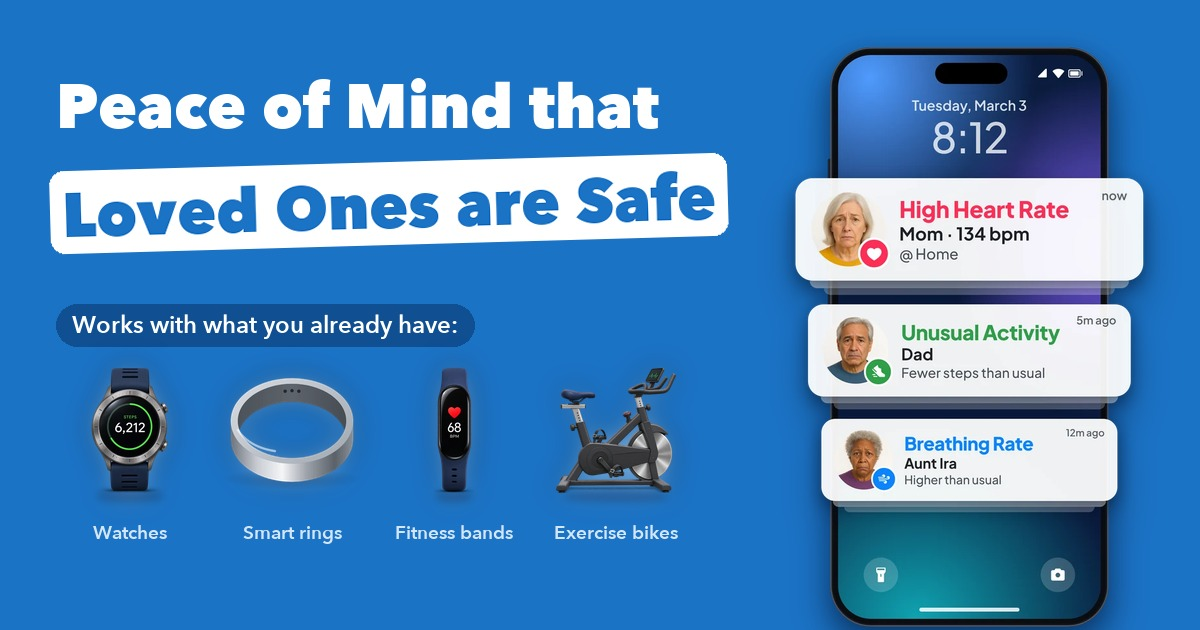
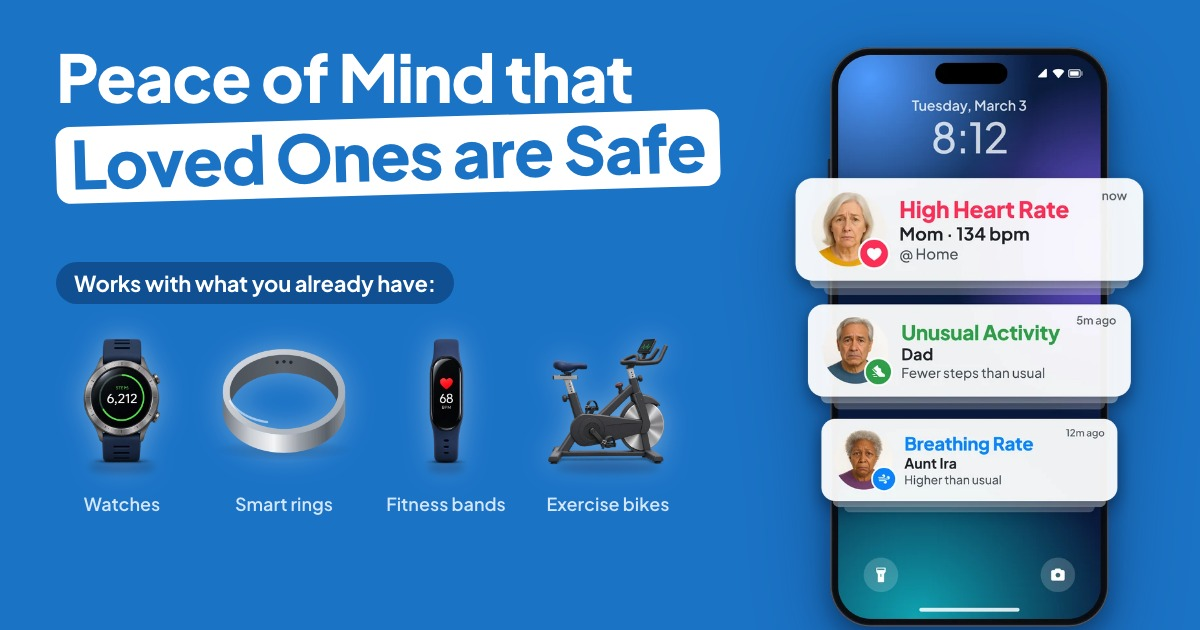
Nov. 12 release: about a Loved One; photo in the site's font

Changed region(s): [[0.0308, 0.0603, 0.6167, 0.8746]]

diff --git a/press/one-daily-answer.html b/press/one-daily-answer.html
@@ -6,10 +6,10 @@
   <meta name="robots" content="noindex, nofollow">
   <meta name="viewport" content="width=device-width, initial-scale=1.0">
   <title>Looop helps families know their Loved Ones are safe, no matter the distance, starting with their health | Looop</title>
-  <meta name="description" content="Looop, an Austin startup, helps families stay on top of an aging parent&#x27;s health, safety, and wellbeing, and adds severe weather, nearby crime, and unusual spending to the same daily answer. It works with wearables parents already have, nothing new to buy, and it&#x27;s on the App Store today.">
+  <meta name="description" content="Looop, an Austin startup, helps families stay on top of a Loved One&#x27;s health, safety, and wellbeing, and adds severe weather, nearby crime, and unusual spending to the same daily answer. It works with wearables parents already have, nothing new to buy, and it&#x27;s on the App Store today.">
   <meta property="og:type" content="article">
   <meta property="og:title" content="Looop helps families know their Loved Ones are safe, no matter the distance, starting with their health">
-  <meta property="og:description" content="Looop, an Austin startup, helps families stay on top of an aging parent&#x27;s health, safety, and wellbeing, and adds severe weather, nearby crime, and unusual spending to the same daily answer. It works with wearables parents already have, nothing new to buy, and it&#x27;s on the App Store today.">
+  <meta property="og:description" content="Looop, an Austin startup, helps families stay on top of a Loved One&#x27;s health, safety, and wellbeing, and adds severe weather, nearby crime, and unusual spending to the same daily answer. It works with wearables parents already have, nothing new to buy, and it&#x27;s on the App Store today.">
   <meta property="og:site_name" content="Looop">
   <meta property="og:url" content="https://www.thelooopapp.com/press/one-daily-answer.html">
   <meta property="og:image" content="https://www.thelooopapp.com/images/press/looop-health-alerts.jpg">
@@ -24,7 +24,7 @@
   <link href="https://fonts.googleapis.com/css2?family=Plus+Jakarta+Sans:wght@400;500;600;700;800&display=swap" rel="stylesheet">
 
   <link rel="canonical" href="https://www.thelooopapp.com/press/one-daily-answer.html">
-  <script type="application/ld+json">{"@context": "https://schema.org", "@type": "NewsArticle", "headline": "Looop helps families know their Loved Ones are safe, no matter the distance, starting with their health", "description": "Looop, an Austin startup, helps families stay on top of an aging parent&#x27;s health, safety, and wellbeing, and adds severe weather, nearby crime, and unusual spending to the same daily answer. It works with wearables parents already have, nothing new to buy, and it&#x27;s on the App Store today.", "url": "https://www.thelooopapp.com/press/one-daily-answer.html", "mainEntityOfPage": "https://www.thelooopapp.com/press/one-daily-answer.html", "image": ["https://www.thelooopapp.com/images/press/looop-health-alerts.jpg", "https://www.thelooopapp.com/images/press/looop-icon-1024.png"], "author": {"@type": "Organization", "name": "LooopApp LLC", "alternateName": "Looop", "url": "https://www.thelooopapp.com/", "logo": "https://www.thelooopapp.com/images/press/looop-icon-1024.png", "email": "support@thelooopapp.com", "address": {"@type": "PostalAddress", "addressLocality": "Austin", "addressRegion": "TX", "addressCountry": "US"}}, "publisher": {"@type": "Organization", "name": "LooopApp LLC", "alternateName": "Looop", "url": "https://www.thelooopapp.com/", "logo": "https://www.thelooopapp.com/images/press/looop-icon-1024.png", "email": "support@thelooopapp.com", "address": {"@type": "PostalAddress", "addressLocality": "Austin", "addressRegion": "TX", "addressCountry": "US"}}, "about": {"@type": "MobileApplication", "name": "Looop", "operatingSystem": "iOS", "applicationCategory": "LifestyleApplication", "url": "https://apps.apple.com/us/app/looop-keep-loved-ones-safe/id6760598111"}}</script>
+  <script type="application/ld+json">{"@context": "https://schema.org", "@type": "NewsArticle", "headline": "Looop helps families know their Loved Ones are safe, no matter the distance, starting with their health", "description": "Looop, an Austin startup, helps families stay on top of a Loved One&#x27;s health, safety, and wellbeing, and adds severe weather, nearby crime, and unusual spending to the same daily answer. It works with wearables parents already have, nothing new to buy, and it&#x27;s on the App Store today.", "url": "https://www.thelooopapp.com/press/one-daily-answer.html", "mainEntityOfPage": "https://www.thelooopapp.com/press/one-daily-answer.html", "image": ["https://www.thelooopapp.com/images/press/looop-health-alerts.jpg", "https://www.thelooopapp.com/images/press/looop-icon-1024.png"], "author": {"@type": "Organization", "name": "LooopApp LLC", "alternateName": "Looop", "url": "https://www.thelooopapp.com/", "logo": "https://www.thelooopapp.com/images/press/looop-icon-1024.png", "email": "support@thelooopapp.com", "address": {"@type": "PostalAddress", "addressLocality": "Austin", "addressRegion": "TX", "addressCountry": "US"}}, "publisher": {"@type": "Organization", "name": "LooopApp LLC", "alternateName": "Looop", "url": "https://www.thelooopapp.com/", "logo": "https://www.thelooopapp.com/images/press/looop-icon-1024.png", "email": "support@thelooopapp.com", "address": {"@type": "PostalAddress", "addressLocality": "Austin", "addressRegion": "TX", "addressCountry": "US"}}, "about": {"@type": "MobileApplication", "name": "Looop", "operatingSystem": "iOS", "applicationCategory": "LifestyleApplication", "url": "https://apps.apple.com/us/app/looop-keep-loved-ones-safe/id6760598111"}}</script>
 </head>
 <body>
 
@@ -49,22 +49,22 @@
       <p class="article-byline">Press release<span class="byline-sep">&middot;</span>Draft, not yet released</p>
     </header>
     <div class="article-body">
-<h2>Alerts about a parent's health and activity, a daily summary, and heads-ups about severe weather, nearby crime, and unusual spending, from the phone, watch, ring, or band she already has. Nothing new to buy, and it's on the App Store&nbsp;today.</h2>
-<p><strong>AUSTIN, Texas, Nov. 12, 2026:</strong> LooopApp LLC, an Austin startup, said today that its Looop app helps families stay on top of an aging parent's health, safety, and wellbeing from a distance. It notices changes in her sleep, heart rate, and activity from the watch, smart ring, or fitness band she already wears, and sends a daily summary: a Typical Day, or an Unusual Day that might be worth a&nbsp;call.</p>
+<h2>Alerts about a Loved One's health and activity, a daily summary, and heads-ups about severe weather, nearby crime, and unusual spending, from the phone, watch, ring, or band they already have. Nothing new to buy, and it's on the App Store&nbsp;today.</h2>
+<p><strong>AUSTIN, Texas, Nov. 12, 2026:</strong> LooopApp LLC, an Austin startup, said today that its Looop app helps families stay on top of a Loved One's health, safety, and wellbeing from a distance. It notices changes in their sleep, heart rate, and activity from the watch, smart ring, or fitness band they already wear, and sends a daily summary: a Typical Day, or an Unusual Day that might be worth a&nbsp;call.</p>
 <p>Looop also brings severe weather, nearby crime, unusual spending, and a trip to the ER into that same daily answer, with alerts families can act&nbsp;on.</p>
 <ul>
-<li><strong>Her health:</strong> heart rate, breathing, and sleep, through Apple&nbsp;Health.</li>
-<li><strong>Her activity:</strong> steps, walks, workouts, and driving, and a heads-up when her phone sits untouched for&nbsp;hours.</li>
-<li><strong>Where she is:</strong> a heads-up when she arrives at a hospital or ER, a police station, or an&nbsp;airport.</li>
-<li><strong>What's around her:</strong> severe weather and nearby&nbsp;crime.</li>
-<li><strong>Her spending:</strong> a heads-up about unusually large spending on a linked account, which can be an early sign of a&nbsp;scam.</li>
+<li><strong>Health:</strong> heart rate, breathing, and sleep, through Apple&nbsp;Health.</li>
+<li><strong>Activity:</strong> steps, walks, workouts, and driving, and a heads-up when their phone sits untouched for&nbsp;hours.</li>
+<li><strong>Where they are:</strong> a heads-up when they arrive at a hospital or ER, a police station, or an&nbsp;airport.</li>
+<li><strong>What's around them:</strong> severe weather and nearby&nbsp;crime.</li>
+<li><strong>Spending:</strong> a heads-up about unusually large spending on a linked account, which can be an early sign of a&nbsp;scam.</li>
 </ul>
-<p>With Looop, families see how Mom is doing in one place, instead of checking a health app, a weather app, a banking app, and a&nbsp;map.</p>
+<p>With Looop, families see how a Loved One is doing in one place, instead of checking a health app, a weather app, a banking app, and a&nbsp;map.</p>
 <p><strong>Nothing new to buy</strong></p>
-<p>There's no device to buy and nothing new for her to wear. Looop works with the watches, smart rings, fitness bands, and exercise bikes she already uses, through Apple Health. It's available now on the App Store, and each Loved One joins by&nbsp;invitation.</p>
-<p>"Our own parents live hours away. We wanted Mom's health in one place, and we wanted the rest of her day there too, like a storm heading for her town or a big charge on her card. Looop puts all of it in one answer, using the phone and watch she already has," said the team behind&nbsp;Looop.</p>
+<p>There's no device to buy and nothing new for them to wear. Looop works with the watches, smart rings, fitness bands, and exercise bikes they already use, through Apple Health. It's available now on the App Store, and each Loved One joins by&nbsp;invitation.</p>
+<p>"Our own families are spread out. We wanted our Loved Ones' health in one place, and we wanted the rest of their day there too, like a storm heading for their town or a big charge on their card. Looop puts all of it in one answer, using the phone and watch they already have," said the team behind&nbsp;Looop.</p>
 <p><strong>Peace of mind for you, independence for them</strong></p>
-<p>Looop stays quiet when a day looks like a parent's own normal and sends a heads-up when it doesn't. Families know when a call is worth making, and parents keep their&nbsp;independence.</p>
+<p>Looop stays quiet when a day looks like a Loved One's own normal and sends a heads-up when it doesn't. Families know when a call is worth making, and Loved Ones keep their&nbsp;independence.</p>
 <p><strong>Your family's data isn't for sale</strong></p>
 <p>Looop never sells your data, doesn't work with advertisers, and carries no ads or sponsored offers in its&nbsp;notifications.</p>
 <p><strong>Availability</strong></p>

diff --git a/content/press/one-daily-answer.md b/content/press/one-daily-answer.md
@@ -10,29 +10,29 @@ placeholders: []
 
 # Looop helps families know their Loved Ones are safe, no matter the distance, starting with their health
 
-## Alerts about a parent's health and activity, a daily summary, and heads-ups about severe weather, nearby crime, and unusual spending, from the phone, watch, ring, or band she already has. Nothing new to buy, and it's on the App Store today.
+## Alerts about a Loved One's health and activity, a daily summary, and heads-ups about severe weather, nearby crime, and unusual spending, from the phone, watch, ring, or band they already have. Nothing new to buy, and it's on the App Store today.
 
-**AUSTIN, Texas, Nov. 12, 2026:** LooopApp LLC, an Austin startup, said today that its Looop app helps families stay on top of an aging parent's health, safety, and wellbeing from a distance. It notices changes in her sleep, heart rate, and activity from the watch, smart ring, or fitness band she already wears, and sends a daily summary: a Typical Day, or an Unusual Day that might be worth a call.
+**AUSTIN, Texas, Nov. 12, 2026:** LooopApp LLC, an Austin startup, said today that its Looop app helps families stay on top of a Loved One's health, safety, and wellbeing from a distance. It notices changes in their sleep, heart rate, and activity from the watch, smart ring, or fitness band they already wear, and sends a daily summary: a Typical Day, or an Unusual Day that might be worth a call.
 
 Looop also brings severe weather, nearby crime, unusual spending, and a trip to the ER into that same daily answer, with alerts families can act on.
 
-- **Her health:** heart rate, breathing, and sleep, through Apple Health.
-- **Her activity:** steps, walks, workouts, and driving, and a heads-up when her phone sits untouched for hours.
-- **Where she is:** a heads-up when she arrives at a hospital or ER, a police station, or an airport.
-- **What's around her:** severe weather and nearby crime.
-- **Her spending:** a heads-up about unusually large spending on a linked account, which can be an early sign of a scam.
+- **Health:** heart rate, breathing, and sleep, through Apple Health.
+- **Activity:** steps, walks, workouts, and driving, and a heads-up when their phone sits untouched for hours.
+- **Where they are:** a heads-up when they arrive at a hospital or ER, a police station, or an airport.
+- **What's around them:** severe weather and nearby crime.
+- **Spending:** a heads-up about unusually large spending on a linked account, which can be an early sign of a scam.
 
-With Looop, families see how Mom is doing in one place, instead of checking a health app, a weather app, a banking app, and a map.
+With Looop, families see how a Loved One is doing in one place, instead of checking a health app, a weather app, a banking app, and a map.
 
 **Nothing new to buy**
 
-There's no device to buy and nothing new for her to wear. Looop works with the watches, smart rings, fitness bands, and exercise bikes she already uses, through Apple Health. It's available now on the App Store, and each Loved One joins by invitation.
+There's no device to buy and nothing new for them to wear. Looop works with the watches, smart rings, fitness bands, and exercise bikes they already use, through Apple Health. It's available now on the App Store, and each Loved One joins by invitation.
 
-"Our own parents live hours away. We wanted Mom's health in one place, and we wanted the rest of her day there too, like a storm heading for her town or a big charge on her card. Looop puts all of it in one answer, using the phone and watch she already has," said the team behind Looop.
+"Our own families are spread out. We wanted our Loved Ones' health in one place, and we wanted the rest of their day there too, like a storm heading for their town or a big charge on their card. Looop puts all of it in one answer, using the phone and watch they already have," said the team behind Looop.
 
 **Peace of mind for you, independence for them**
 
-Looop stays quiet when a day looks like a parent's own normal and sends a heads-up when it doesn't. Families know when a call is worth making, and parents keep their independence.
+Looop stays quiet when a day looks like a Loved One's own normal and sends a heads-up when it doesn't. Families know when a call is worth making, and Loved Ones keep their independence.
 
 **Your family's data isn't for sale**
 

diff --git a/CHANGELOG.md b/CHANGELOG.md
@@ -2,6 +2,12 @@
 
 Changes to thelooopapp.com, newest first. This file is not published (see `_config.yml`).
 
+## 2026-11-12 10:45 CT
+
+### Changed
+- Hidden Nov. 12 release (`press/one-daily-answer.html` and its source): the story is about a Loved One, not Mom: "her," "she," "Mom," and "parent" are now "a Loved One" or "they," including the alert list labels (Health, Activity, Where they are, What's around them, Spending), the one-place line, the team quote, and the description.
+- `images/press/looop-health-alerts.jpg` re-rendered from HTML with the site's real font (Plus Jakarta Sans 800, -0.02em letter-spacing, 1.1 line-height) and the homepage hero's pill styling, so the title matches the website. 1200 x 630 JPG, 123 KB.
+
 ## 2026-11-12 10:15 CT
 
 ### Changed
